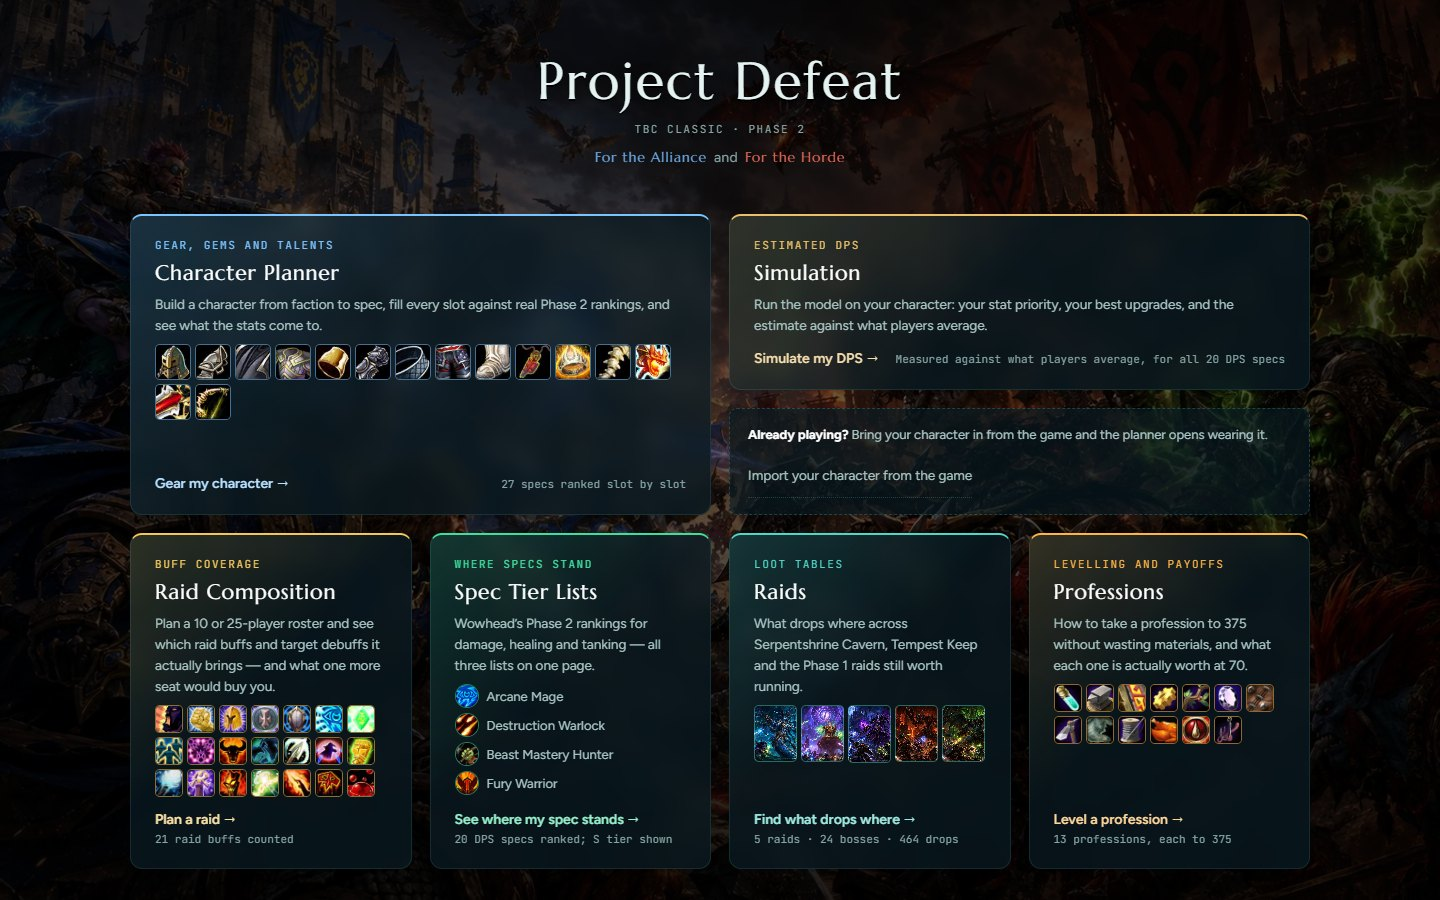
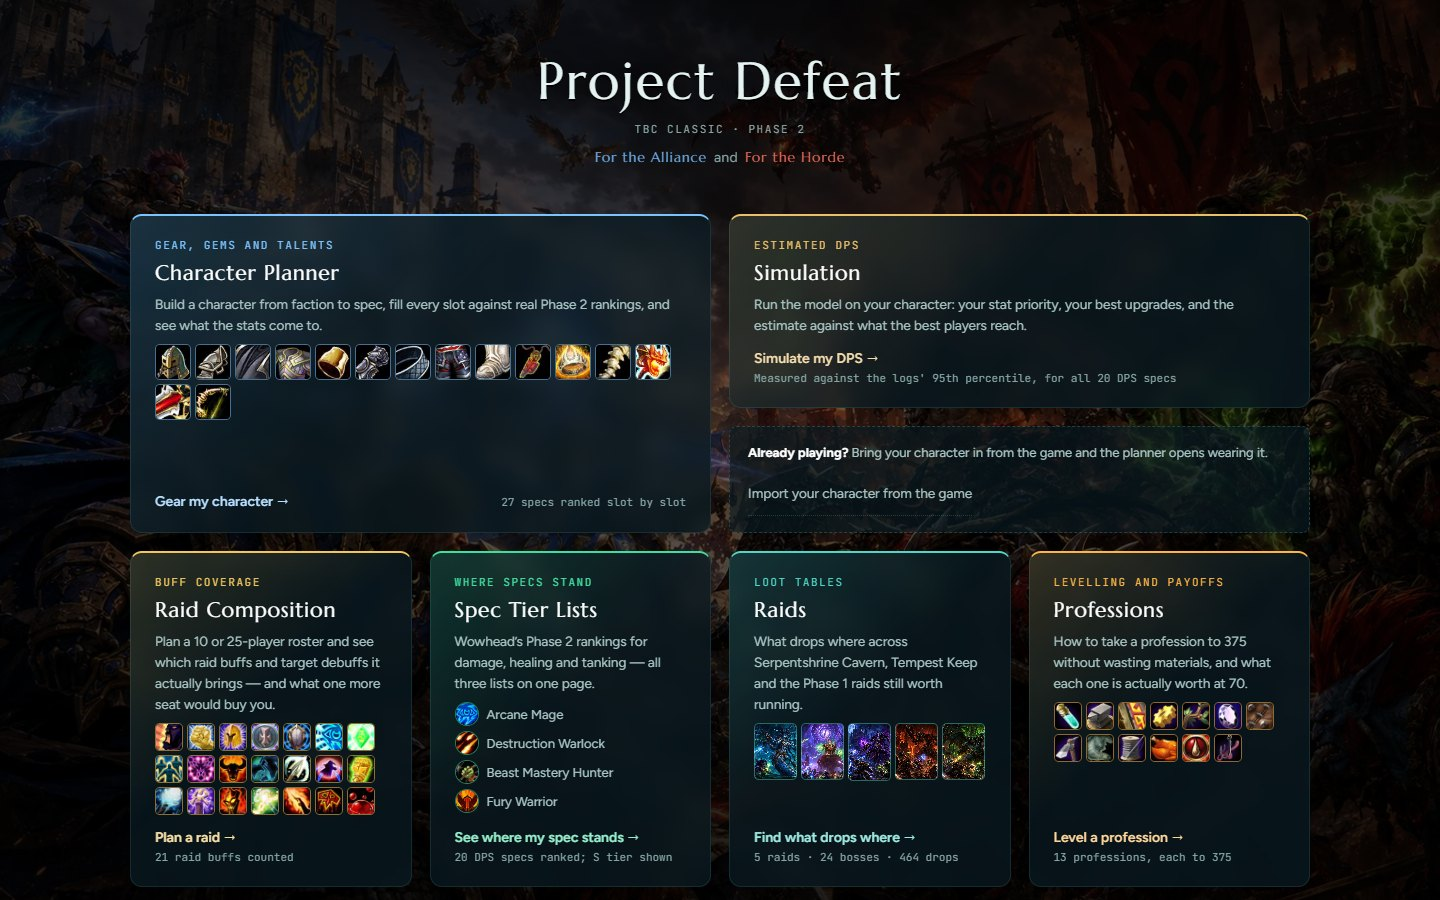
Bring the README up to where the project is
- "What it does" covers every section as it is now: the planner's six tabs, the simulation, Raid Composition with its image export, the Raids journal, Spec Tier Lists (missing before) and Professions.
- A new "Where it stands": every tab built for Phase 2; the simulator measured against Warcraft Logs' 95th percentile, reading 1.00x to 1.82x below it with Marksmanship marked; what it counts and what it doesn't yet; 434 tests.
- The move to the current content is pointed at PLAN_FOR_CURRENT_ITERATION.md, with what blocks it (Wowhead refusing scripted requests); "Next" names the simulator's remaining gaps, global search and the Discord bot.
- The owner's "Current dealings" kept in the owner's words, typos fixed; the long redesign table becomes a short paragraph with the same links; the docs list gains the plan and the handoff; three.js joins "Built with".
- The README screenshots and the link preview retaken from the app as it is now (they dated from 2026-10-12, before most of the port and the 3D scene).

diff --git a/README.md b/README.md
@@ -11,13 +11,18 @@ A gear / talent / raid comp planner for **World of Warcraft: The Burning Crusade
 
 ## What it does
 
-- **Character planner.** Pick a faction, race, class and spec, then fill every slot from real Phase 2 best-in-slot rankings, including gems and enchants. You see your stats update as you go.
-- **Gear comparison and upgrades.** Compare two items inside the set you're actually wearing, or rank every legal upgrade for a slot.
-- **Talents.** Talent trees for all nine classes, with real icons and rank descriptions.
-- **DPS simulation.** An estimated DPS for the 20 damage specs against a fixed raid boss. Rotations are still being worked on (see [known limitations](docs/known-limitations.md)).
-- **Raid composition.** Seat a 10 or 25-player raid and see which buffs each group actually gets. You can export the seating chart as an image for Discord.
-- **Raids.** Loot tables for every Phase 1 and 2 raid, plus the steps to get attuned.
-- **Professions.** The game's profession tab: set your skill and every recipe on the path to 375 takes its colour, with trainer stops, reagents and each gathering range's loop on its TBC zone map; "Which two" ranks every profession by what it makes for your spec.
+- **Character planner.** Pick a faction, race, class and spec, then fill every slot from real Phase 2 best-in-slot rankings, gems and enchants included, and watch your stats update as you go. Six tabs:
+  - **Gear:** the game's character sheet, with your hit cap in plain words and a "What's left" list of one-press fixes.
+  - **Ranked Gear:** Wowhead's order for your spec, slot by slot, as game tooltips, and where each item drops.
+  - **Compare:** your item's tooltip beside another's, with the trade in one sentence.
+  - **Talents:** the game's talent window for all nine classes, a raiding preset where wowsims has one, and what each talent does to your numbers.
+  - **Buffs:** filled in from your raid and your seat in it, with consumables.
+  - **Build:** a share card and a link that carries the whole build.
+- **DPS simulation.** An estimated DPS for the 20 damage specs against a raid boss: your stat priority, your best upgrades with one-press Equip, where the damage comes from, and how far to trust the number.
+- **Raid composition.** Seat a 10 or 25-player raid and see which buffs and boss debuffs each group actually gets, what one more seat would add, and who fixes what is missing. You can export the seating chart as an image to show your Discord server what raid night will look like.
+- **Raids.** A boss journal for every Phase 1 and 2 raid: each boss's loot with your spec's picks, who in your raid wants each drop, a search across all five raids, and the steps to get attuned.
+- **Spec Tier Lists.** Wowhead's tier lists as a board of spec icons, a card for any spec, and a view of those tiers against what players actually parse.
+- **Professions.** The game's profession window: set your skill and every recipe on the path to 375 takes its colour, with trainer stops, reagents and each gathering range's loop on its TBC zone map. "Which two" ranks every profession by what it makes for your spec.
 - **Import from the game.** A small addon exports your character, so you can open the planner already wearing your gear.
 - **Share a build as a link.** Nothing is uploaded; the whole build rides in the URL.
 
@@ -25,13 +30,47 @@ A gear / talent / raid comp planner for **World of Warcraft: The Burning Crusade
 
 ## Using it
 
-Everything runs in your browser. There are no accounts and no server. Theres no need to make one.
+Everything runs in your browser. There are no accounts and no server, so there's nothing to sign up for.
 
 1. Open the [live app](https://josephevenson08.github.io/project-defeat/) and choose **Character Planner**.
 2. Create your character, or press **Import your character from the game** if you use the addon.
 3. Press **Equip the recommended set** to start from the BiS list, then swap pieces from there.
 
 To export your character from the game, see [`addon/README.md`](addon/README.md).
+
+## Where it stands
+
+**Every tab is built for Phase 2.** Each was redesigned and the new designs are all in the live app (October 2026). Since then the work has gone into the simulator's accuracy:
+
+- **It is measured against real players.** Every damage spec's best case is compared with what the top 5% of that spec's players parse in Phase 2 (Warcraft Logs' 95th percentile). The model reads **1.00× to 1.82× below** that, and a test fails if any spec ever reads above it. One exception, Marksmanship, is marked in the app: its comparison comes from too few players of a spec the guides told raiders not to play.
+- **What it counts:** your gear, gems, enchants and talents (every talent is either counted, or the app says on screen why it isn't); raid buffs and boss debuffs, each reaching only the spell schools it should; the timed class cooldowns, like Death Wish, Arcane Power and Rapid Fire, averaged over the fight; pets, poisons, bleeds, seals and Windfury.
+- **What it doesn't count yet:** cooldowns that empower a single cast (Combustion, Cold Blood and the like), caster mana (which holds Arcane back most), and a few pets. Healer and tank numbers still run but aren't the focus. [Known limitations](docs/known-limitations.md) lists every gap.
+- **434 automated tests** run in a real browser, and every dataset comes from a pinned, named source.
+
+**The app stays on Phase 2 on purpose.** The game has since moved on to Black Temple, Mount Hyjal and the Zul'Aman update. Catching up is planned in [`PLAN_FOR_CURRENT_ITERATION.md`](PLAN_FOR_CURRENT_ITERATION.md), which a scheduled job researches every morning. Most of its data work waits on one thing: Wowhead blocks scripted requests, and it is the source for the rankings, loot and tier lists. The same block holds up the refresh of the professions' gathering-node maps.
+
+**Next:** the move to the current content, the simulator's remaining gaps (single-cast cooldowns, caster mana), a search across the whole app (Ctrl K), and the Discord bot below.
+
+## Current dealings
+
+Right now I'm working on making this up to date with TBC, but it's taking a while, so I'll update when I can :D
+
+## Coming next: a Discord bot
+
+A bot that answers questions and requests in Discord from the same data as the app: `/bis fury warrior` for a
+spec's BiS list, `/whodrops`, `/loot karazhan`, `/attune`, `/farm fel iron`, and `/import` to list
+upgrades from your in-game export. It will run on a Raspberry Pi. See the
+[plan](discord-bot/PLAN.md).
+
+## The redesign
+
+Research into how 25 gaming companies and player tools design their sites in 2024–2026
+([findings](docs/research/gaming-ui/README.md)) led to clickable [design prototypes](docs/design/prototypes/README.md)
+of every tab, walked through one tab at a time, three designs per step, with motion tuned to TBC by
+[this research](docs/research/wow-tbc-motion/README.md). Every decided design was brought into the app by the
+[port plan](docs/design/PORT-PLAN.md), finished 2026-10-24: the look, Spec Tier Lists, Raids, Professions,
+Simulation, Raid Composition, the six planner tabs, and an optional 3D crystal-and-water scene behind every section.
+The [prototype gallery](https://josephevenson08.github.io/project-defeat/prototypes/) is still published beside the app.
 
 ## Run it locally
 
@@ -51,7 +90,7 @@ npm run dev
 | `npm run brain` | Regenerate the Obsidian project notes in `brain/` |
 | `npm run changelog` | Regenerate the daily dev log |
 
-**Built with** React, TypeScript, Vite, Anime.js and Playwright. It deploys to GitHub Pages on every push to `main`.
+**Built with** React, TypeScript, Vite, three.js, Anime.js and Playwright. It deploys to GitHub Pages on every push to `main`.
 
 ## Project layout
 
@@ -71,48 +110,9 @@ brain/        generated Obsidian notes that map the codebase
 - [Full feature list](docs/features.md)
 - [Roadmap](docs/ROADMAP.md)
 - [Known limitations](docs/known-limitations.md)
+- [Plan for the current game content](PLAN_FOR_CURRENT_ITERATION.md)
+- [Where the work stands](docs/dev-log/HANDOFF.md): the handoff, read the top to pick the work back up
 - [All docs](docs/README.md): architecture, design scopes, a usability study, and the dev log
-
-## Coming next: a Discord bot
-
-A bot that answers questions/requests in Discord from the same data as the app: `/bis fury warrior` for a
-spec's BiS list, `/whodrops`, `/loot karazhan`, `/attune`, `/farm fel iron`, and `/import` to list
-upgrades from your in-game export. It will run on a Raspberry Pi. See the
-[plan](discord-bot/PLAN.md).
-
-## The redesign: being brought into the app
-
-Research into how 25 gaming companies and player tools design their sites in 2024–2026
-([findings](docs/research/gaming-ui/README.md)) led to clickable [design prototypes](docs/design/prototypes/README.md)
-of every tab, walked through with the owner one tab at a time, three designs per step. Their animation is tuned to
-TBC by [this research](docs/research/wow-tbc-motion/README.md). **Try them:** the
-[prototype gallery](https://josephevenson08.github.io/project-defeat/prototypes/) is published beside the app.
-
-**Every tab's design is decided** (2026-10-12), and since 2026-10-24 every decided design is in the live app, following
-the [port plan](docs/design/PORT-PLAN.md):
-
-| Step | What | State |
-| --- | --- | --- |
-| 0 | **The look:** dark glass panels, Marcellus and Figtree, a colour and a still backdrop per tab, the phase on every screen | Done, 2026-10-12 |
-| 1 | **Spec Tier Lists:** a board of spec icons from Wowhead's three lists, a card for any spec, and a switch to Wowhead's tiers against what players actually parse (Warcraft Logs' 95th percentile, archon.gg's tiers) | Done, 2026-10-12 |
-| 2 | **Raids:** a boss journal with your spec's picks, who in your raid wants each drop, and a search across all five raids | Done, 2026-10-13 |
-| 3 | **Professions:** the game's profession window, and which two to take | Done (2026-10-17): recipes coloured at your skill, trainer stops, reagents, each range's loop on its TBC map; "Which two" with your character's two professions. The node refresh of the [maps rework](docs/design/MAPS-PLAN.md) waits for Wowhead to answer scripted requests again |
-| 4 | **Simulation:** what to do next (your stat priority, your best upgrades with Equip, then the estimate) with the damage sources and how far to trust the number | Done, 2026-10-17 |
-| 5 | **Raid Composition:** the planning table with a click-to-fill palette, Undo and the example roster, then what one more seat would add and who fixes what is missing, you can also export this do bring it to your discord server to show others what the raid night will look like. | Done, 2026-10-17 |
-| 6 | **The Character Planner**, one sub-tab at a time: **Build** (the share card, and a read-first report on the paste box) and **Ranked Gear** (Wowhead's order slot by slot as game tooltips, and where each item drops) done 2026-10-18; **Compare** (your item's tooltip beside another's, with the trade in one sentence), **Buffs** (filled in from your raid and your seat in it, with icons) and **Gear** (the game's character sheet with the hit cap in plain words for every spec, and "What's left" with one-press fixes) done 2026-10-19; **Talents** (the game's talent window for every class, wowsims' preset where it has one, and "What's off" with one-press fixes) done 2026-10-22 | Done, 2026-10-22 |
-| 7 | **The scene:** the prototypes' 3D crystal-and-water scene behind every section in its tab's colour and detail, with the motion each tab was waiting for (tiles landing, a learned talent's pulse, a light per raid group), as an optional layer: on by default with a switch, downloaded only where it runs, and the still backdrop with reduced motion, without WebGL or on a weak device | Done, 2026-10-24 |
-
-**To pick the work back up,** read the top of [`docs/dev-log/HANDOFF.md`](docs/dev-log/HANDOFF.md).
-
-The app stays on Phase 2 on purpose, even though Phase 3 is live.
-
-## Status
-
-A working planner, focused on Phase 2 and on DPS specs. Healer and tank math still runs but isn't the focus. Every dataset comes from a pinned source, and wherever the app can't model something, it says so on screen. This is my biggest project so far and it's still growing.
-
-## Current dealings
-
-Right now im working on making this up to date with TBC, but it's taking a while, so ill update when i can :D
 
 ## License
 
